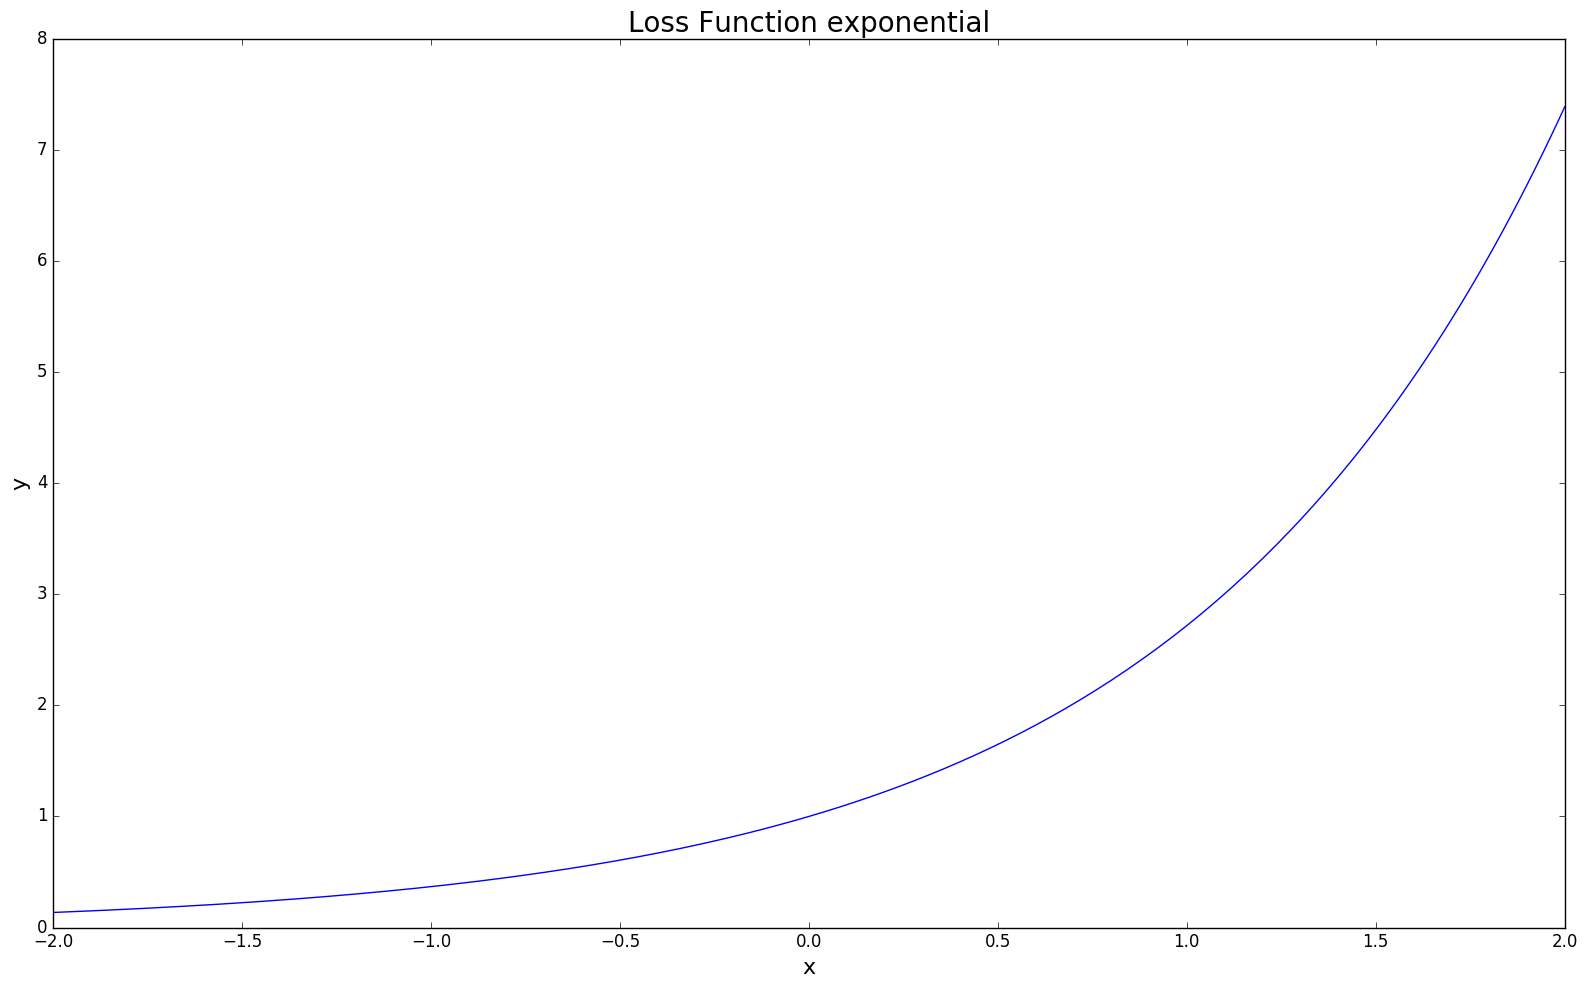
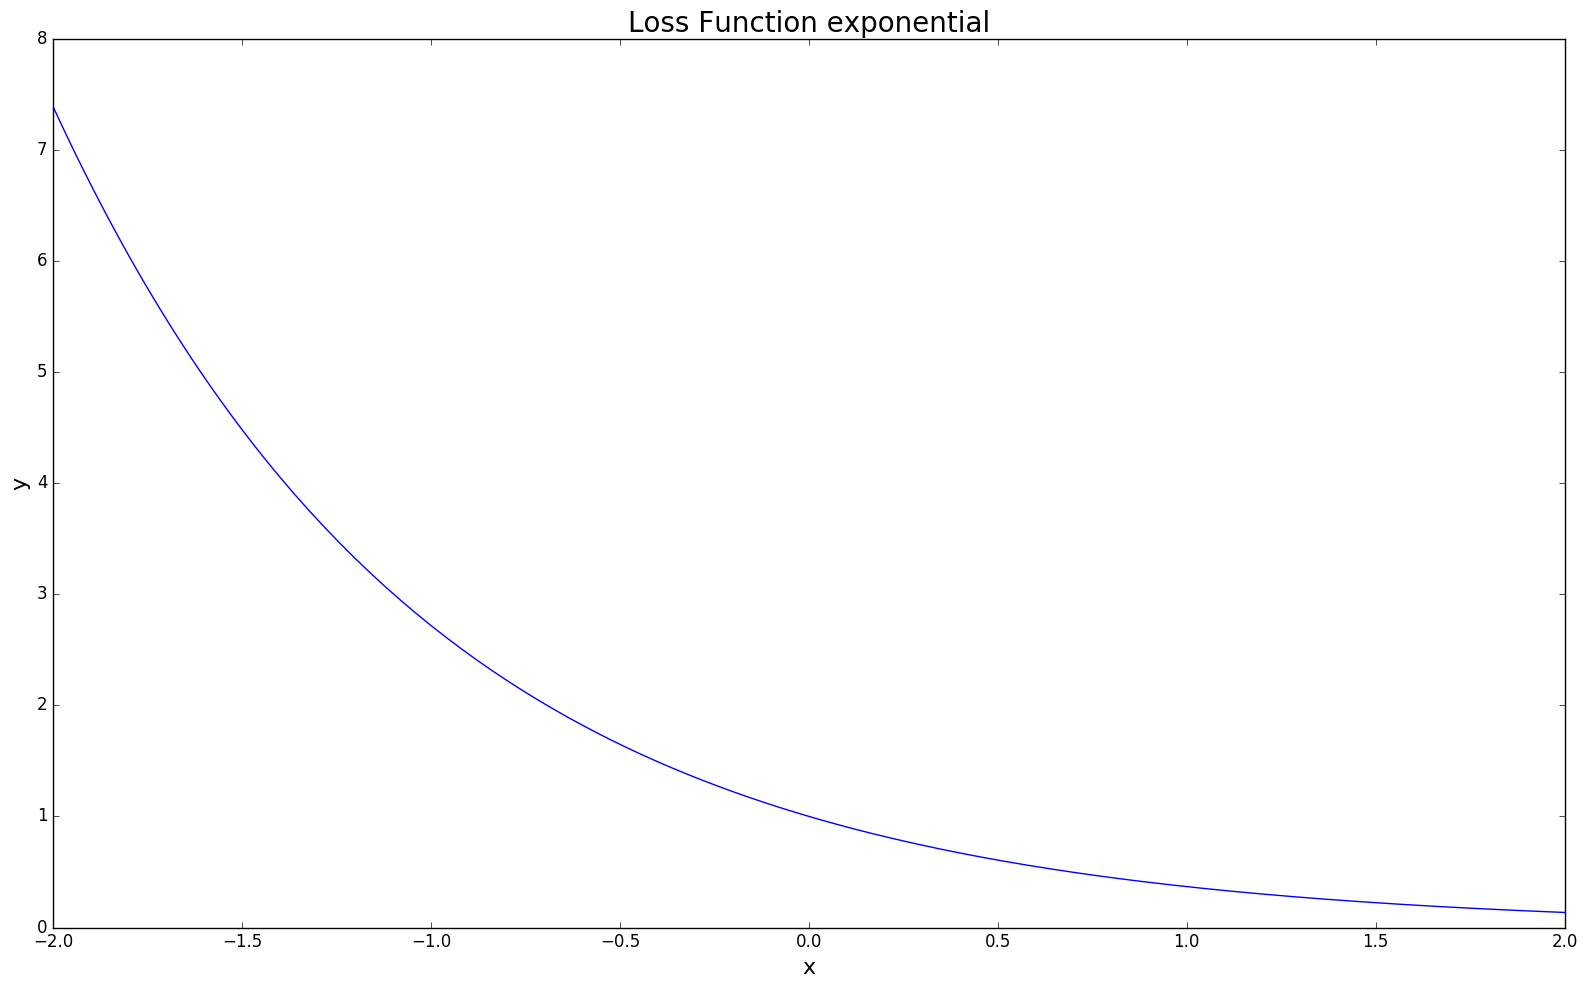
first commit

Changed region(s): [[0.4937, 0.8198, 0.5246, 0.8502]]

diff --git a/Plot_Loss_Functions.py b/Plot_Loss_Functions.py
@@ -4,7 +4,7 @@ import matplotlib.pyplot as plt
 Dir = '/Users/zhenyuz/Documents/Projects/Davis Courses/loss_function_plots'
 
 def exponential(x):
-    return np.exp(x)
+    return np.exp(-x)
 
 def quadratic(x):
     return (np.max(1-x,0))**2
